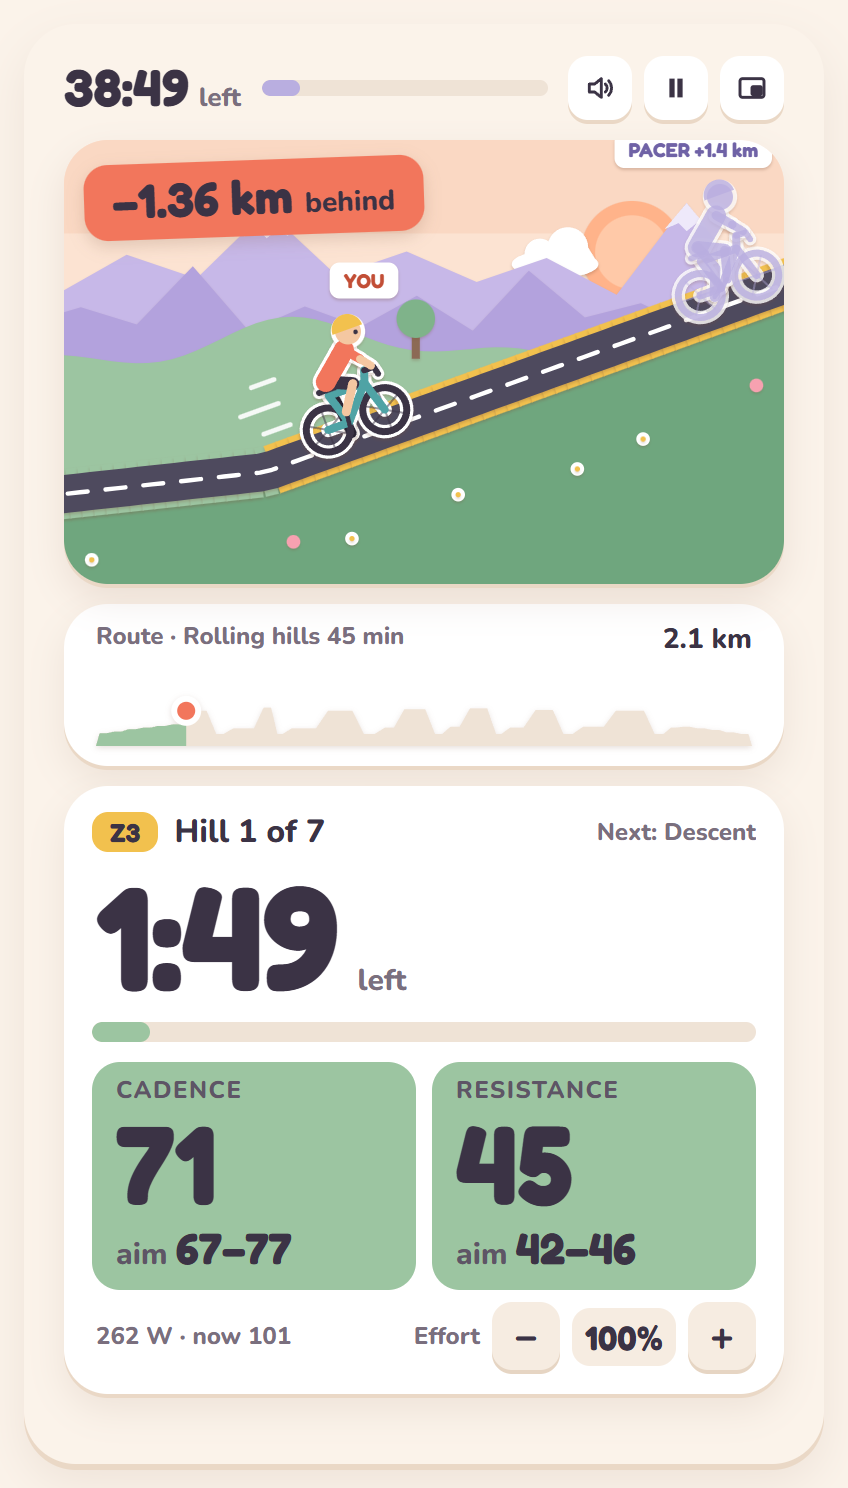
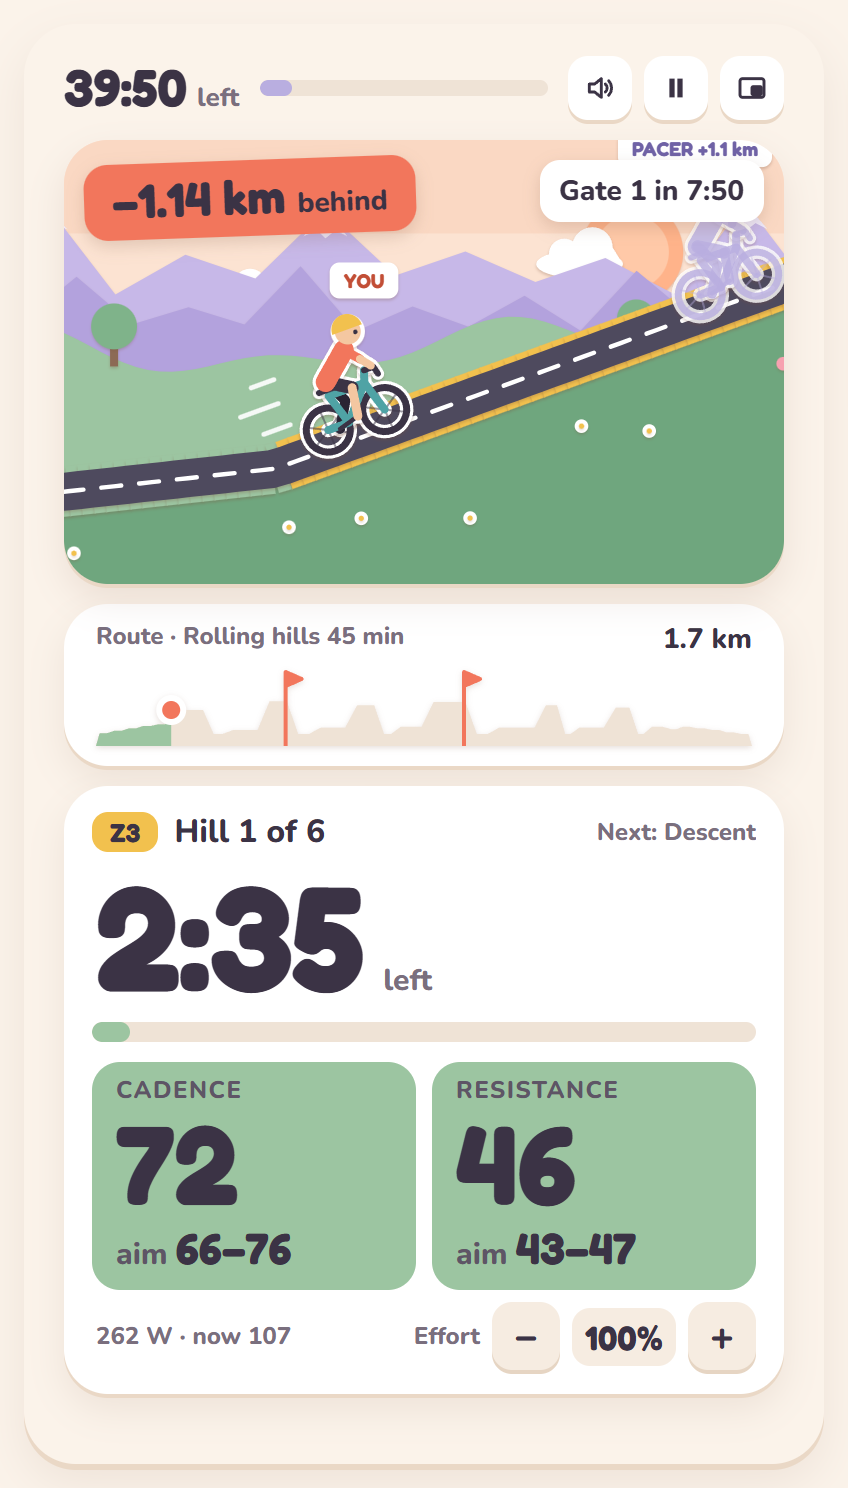
Rides scale by stretching and adding; sets; pyramid repeats; random pick
- Longer rides get longer efforts as well as more of them: effort
  lengths grow with the square root of the time available.
- More than five repeats are grouped into sets with a three-minute easy
  spell between (intervals, sprints).
- Pyramid repeats its ladder with an easy spell between, instead of
  filling long rides with cruising.
- Mountain climbs share the time evenly between mountains.
- Warm-up and cool-down are three to five minutes each.
- "Pick one for me" in the ride type step chooses a random ride.

Claude-Session: https://claude.ai/code/session_019bcLdA25aR7snsdYMj9RXw

diff --git a/src/core/workout.js b/src/core/workout.js
@@ -78,8 +78,8 @@ export function generateWorkout(type, minutes, variant = 0) {
   };
   const rand = seeded(`${type}-${minutes}-${v}`);
 
-  const warm = Math.max(3, Math.round(minutes * 0.13));
-  const cool = Math.max(3, Math.round(minutes * 0.1));
+  const warm = Math.min(5, Math.max(3, Math.round(minutes * 0.13)));
+  const cool = Math.min(5, Math.max(3, Math.round(minutes * 0.1)));
   const main = (minutes - warm - cool) * 60;
 
   const warmTop = type === 'recovery' ? 58 : 72;
@@ -119,19 +119,43 @@ export function generateWorkout(type, minutes, variant = 0) {
   return workout;
 }
 
+const EASY_SPELL_S = 180;
+
 /**
  * The main-set builders. Each takes a budget in seconds, spends what it can,
  * and fills any remainder with easy cruising, so the total is always exact.
+ *
+ * A longer ride gets both longer efforts and more of them: lengths grow with
+ * the square root of the time available (`stretch`), and the count makes up the
+ * rest. Once there are more than five repeats they are grouped into sets with
+ * an easy spell between, so a long ride has a shape.
  */
 function makeBuilders(add, v, rand) {
   const cruise = (sec) => add(sec, 62, 'steady', { name: 'Cruise' });
   const between = (lo, hi) => lo + rand() * (hi - lo);
   const step = (x, s = 15) => Math.round(x / s) * s;
+  const stretch = (budget) => Math.min(1.8, Math.max(0.85, Math.sqrt(budget / 1200)));
+
+  /** Fill the budget with repeats of `repS` seconds, in sets. Returns the seconds used. */
+  const inSets = (budget, repS, emit) => {
+    let n = Math.floor(budget / repS);
+    let sets = 1;
+    if (n > 5) {
+      sets = Math.ceil(n / 4);
+      n = Math.floor((budget - (sets - 1) * EASY_SPELL_S) / repS);
+    }
+    for (let i = 0; i < sets; i++) {
+      const inThisSet = Math.floor(n / sets) + (i < n % sets ? 1 : 0);
+      for (let r = 0; r < inThisSet; r++) emit();
+      if (i < sets - 1) add(EASY_SPELL_S, 60, 'steady', { name: 'Easy spell' });
+    }
+    return n * repS + (sets - 1) * EASY_SPELL_S;
+  };
   const clampInt = (x, lo, hi) => Math.min(hi, Math.max(lo, Math.round(x)));
 
   const b = {
     endurance(budget) {
-      const blk = [5, 6, 4][v] * 60;
+      const blk = step([5, 6, 4][v] * 60 * stretch(budget), 60);
       const ps = [[65, 72], [68, 74], [62, 70]][v];
       let left = budget;
       let i = 0;
@@ -140,7 +164,7 @@ function makeBuilders(add, v, rand) {
     },
 
     recovery(budget) {
-      const blk = 300;
+      const blk = step(300 * stretch(budget), 60);
       const ps = [[55, 60], [52, 58], [58, 62]][v];
       let left = budget;
       let i = 0;
@@ -162,38 +186,44 @@ function makeBuilders(add, v, rand) {
     },
 
     intervals(budget) {
-      const [on, off] = [[3, 2], [4, 3], [2, 1]][v].map((m) => m * 60);
-      let left = budget;
-      while (left >= on + off) { add(on, 105, 'work'); add(off, 55, 'recovery'); left -= on + off; }
-      cruise(left);
+      const [on, off] = [[3, 2], [4, 3], [2, 1]][v].map((m) => step(m * 60 * stretch(budget), 30));
+      cruise(budget - inSets(budget, on + off, () => { add(on, 105, 'work'); add(off, 55, 'recovery'); }));
     },
 
     pyramid(budget) {
-      // The biggest ladder that fits (each needs its steps plus 1 min between them).
+      // The biggest ladder that fits (each needs its steps plus 1 min between
+      // them), then another after an easy spell, for as long as one fits.
       const ladders = [[1, 2, 3, 4, 3, 2, 1], [1, 2, 3, 2, 1], [1, 2, 1], [1]];
       const cost = (s) => (s.reduce((x, y) => x + y, 0) + s.length - 1) * 60;
-      const steps = ladders.find((s) => cost(s) <= budget) ?? [];
       const peak = [115, 110, 120][v];
-      steps.forEach((s, i) => {
-        add(s * 60, s <= 2 ? peak : peak - 12, 'work');
-        if (i < steps.length - 1) add(60, 55, 'recovery');
-      });
-      cruise(budget - (steps.length ? cost(steps) : 0));
+      let left = budget;
+      for (let n = 0; ; n++) {
+        const room = n ? left - EASY_SPELL_S : left;
+        const steps = ladders.find((s) => cost(s) <= room && (n === 0 || s.length > 1));
+        if (!steps) break;
+        if (n) add(EASY_SPELL_S, 60, 'steady', { name: 'Easy spell' });
+        steps.forEach((s, i) => {
+          add(s * 60, s <= 2 ? peak : peak - 12, 'work');
+          if (i < steps.length - 1) add(60, 55, 'recovery');
+        });
+        left = room - cost(steps);
+      }
+      cruise(left);
     },
 
     sprints(budget) {
+      // Sprints stay the same length however long the ride; there are just more sets.
       const [on, off] = [[30, 150], [15, 105], [30, 210]][v];
-      let left = budget;
-      while (left >= on + off) { add(on, 150, 'sprint'); add(off, 58, 'recovery'); left -= on + off; }
-      cruise(left);
+      cruise(budget - inSets(budget, on + off, () => { add(on, 150, 'sprint'); add(off, 58, 'recovery'); }));
     },
 
     cadence(budget) {
       const rpms = [70, 90, 110];
       const ps = [58, 63, 68];
+      const blk = step(180 * stretch(budget), 30);
       let left = budget;
       let i = 0;
-      while (left >= 180) { add(180, ps[(i + v) % 3], 'drill', { cadence: rpms[(i + v) % 3] }); left -= 180; i++; }
+      while (left >= blk) { add(blk, ps[(i + v) % 3], 'drill', { cadence: rpms[(i + v) % 3] }); left -= blk; i++; }
       cruise(left);
     },
 
@@ -233,16 +263,17 @@ function makeBuilders(add, v, rand) {
         { climb: [45, 90], pct: [95, 110] }, // punchy
         { climb: [120, 240], pct: [78, 90] }, // long drags
       ][v];
+      const k = stretch(budget);
       let left = budget;
-      while (left >= style.climb[0] + 120) {
-        const climb = Math.min(step(between(...style.climb)), left - 120);
+      while (left >= style.climb[0] * k + 120) {
+        const climb = Math.min(step(between(...style.climb) * k), left - 120);
         const pct = between(...style.pct);
         // No two hills alike: steeper ones are ridden slower, and descents and
         // flats vary a little too.
         add(climb, pct, 'work', { cadence: clampInt(72 - (pct - 80) / 3 + between(-2, 2), 60, 76), name: 'Hill' });
         const descent = step(between(45, 90));
         add(descent, between(50, 60), 'recovery', { cadence: Math.round(between(90, 98)), name: 'Descent' });
-        const flat = Math.min(step(between(60, 150)), left - climb - descent);
+        const flat = Math.min(step(between(60, 150) * k), left - climb - descent);
         add(flat, between(66, 74), 'steady', { cadence: Math.round(between(86, 92)), name: 'Flat' });
         left -= climb + descent + Math.max(0, flat);
       }
@@ -256,23 +287,29 @@ function makeBuilders(add, v, rand) {
         { start: 84, rise: 5, stepS: 120 },
         { start: 78, rise: 3, stepS: 180 },
       ][v];
+      const stepS = step(style.stepS * stretch(budget), 30);
       const approach = 120;
       const summit = 60;
       const descent = 180;
+      // Share the time evenly between the mountains, so the last one isn't
+      // squeezed out and replaced by a long cruise.
+      const fixed = approach + summit + descent;
+      const count = Math.max(1, Math.round(budget / (fixed + 4 * stepS)));
+      const each = Math.floor(budget / count);
       let left = budget;
-      let m = 0;
-      while (left >= approach + style.stepS * 2 + summit + descent) {
-        const room = left - approach - summit - descent;
-        const steps = Math.max(2, Math.min(5, Math.floor(room / style.stepS)));
-        m++;
-        add(approach, between(66, 72), 'steady', { cadence: 88, name: 'Approach' });
+      for (let m = 1; m <= count && each >= fixed + stepS * 2; m++) {
+        const steps = Math.min(6, Math.floor((each - fixed) / stepS));
+        // Time that doesn't fill another step goes into a longer ride in.
+        const valley = Math.min(240, step(each - fixed - steps * stepS) - 15);
+        const rideIn = approach + Math.max(0, valley);
+        add(rideIn, between(66, 72), 'steady', { cadence: 88, name: 'Approach' });
         // Each mountain's steps still rise, but unevenly, as real gradients do.
         for (let i = 0; i < steps; i++) {
-          add(style.stepS, style.start + i * style.rise + between(-1.5, 1.5), 'work', { cadence: clampInt(72 - i * 3 + between(-1, 1), 60, 76), label: `Mountain ${m} · climb ${i + 1}/${steps}` });
+          add(stepS, style.start + i * style.rise + between(-1.5, 1.5), 'work', { cadence: clampInt(72 - i * 3 + between(-1, 1), 60, 76), label: `Mountain ${m} · climb ${i + 1}/${steps}` });
         }
         add(summit, between(104, 112), 'work', { cadence: Math.round(between(65, 70)), label: `Mountain ${m} · summit` });
         add(descent, between(52, 58), 'recovery', { cadence: Math.round(between(92, 98)), name: 'Descent' });
-        left -= approach + steps * style.stepS + summit + descent;
+        left -= rideIn + steps * stepS + summit + descent;
       }
       cruise(left);
     },
@@ -284,12 +321,13 @@ function makeBuilders(add, v, rand) {
         { gap: [60, 150], surge: [15, 40], pct: [120, 140] },
         { gap: [180, 300], surge: [30, 75], pct: [110, 120] },
       ][v];
+      const k = stretch(budget);
       let left = budget;
       while (left >= style.gap[0] + style.surge[0]) {
-        const gap = Math.min(step(between(...style.gap)), left - style.surge[0]);
+        const gap = Math.min(step(between(...style.gap) * k), left - style.surge[0]);
         add(gap, between(66, 74), 'steady', { cadence: Math.round(between(85, 91)), name: 'Ride' });
         left -= gap;
-        const surge = Math.min(step(between(...style.surge), 5), left);
+        const surge = Math.min(step(between(...style.surge) * Math.sqrt(k), 5), left);
         add(surge, between(...style.pct), 'work', { cadence: Math.round(between(94, 102)), name: 'Surge' });
         left -= surge;
       }
@@ -311,9 +349,10 @@ function makeBuilders(add, v, rand) {
         ['jumps', 'seated', 'sprints', 'recover', 'standing', 'flat'],
         ['seated', 'standing', 'recover', 'jumps', 'sprints', 'flat'],
       ][v];
+      const k = stretch(budget);
       let left = budget;
       for (let i = 0; ; i++) {
-        const parts = songs[order[i % order.length]]();
+        const parts = songs[order[i % order.length]]().map(([dur, ...rest]) => [dur >= 120 ? step(dur * k, 30) : dur, ...rest]);
         const len = parts.reduce((a, p) => a + p[0], 0);
         if (len > left) break;
         for (const p of parts) add(...p);

diff --git a/src/ui/app.js b/src/ui/app.js
@@ -225,7 +225,10 @@ function renderSetup() {
   // One group of types open at a time; a closed group shows the pick inside it.
   const groups = [...new Set(TYPES.map((t) => t.group))];
   if (state.typeGroup === undefined) state.typeGroup = TYPES.find((t) => t.id === state.type)?.group;
-  $('types').innerHTML = groups.map((g) => {
+  $('types').innerHTML = `<button type="button" class="type-random" data-random>
+      <svg width="18" height="18" viewBox="0 0 24 24" fill="none" stroke="currentColor" stroke-width="2.2" stroke-linecap="round" stroke-linejoin="round" aria-hidden="true"><path d="M16 3h5v5"/><path d="M4 20L21 3"/><path d="M21 16v5h-5"/><path d="M15 15l6 6"/><path d="M4 4l5 5"/></svg>
+      Pick one for me
+    </button>` + groups.map((g) => {
     const list = TYPES.filter((t) => t.group === g);
     const open = g === state.typeGroup;
     const head = `<button type="button" class="type-group" data-group="${esc(g)}" aria-expanded="${open}" style="background:${GROUP_COLORS[g] ?? ''}">
@@ -388,6 +391,17 @@ $('cust-minus').addEventListener('click', () => setDuration(Math.ceil(state.dura
 $('cust-plus').addEventListener('click', () => setDuration(Math.floor(state.duration / 5) * 5 + 5));
 
 $('types').addEventListener('click', (e) => {
+  if (e.target.closest('[data-random]')) {
+    // Any ride but the current one, in any of its three versions.
+    const others = TYPES.filter((t) => t.id !== state.type);
+    const pick = others[Math.floor(Math.random() * others.length)];
+    state.type = pick.id;
+    state.variant = Math.floor(Math.random() * 3);
+    state.typeGroup = pick.group;
+    saveSettings({ lastType: state.type });
+    renderSetup();
+    return;
+  }
   const head = e.target.closest('[data-group]');
   if (head) {
     state.typeGroup = state.typeGroup === head.dataset.group ? null : head.dataset.group;

diff --git a/test/workout.test.js b/test/workout.test.js
@@ -166,3 +166,29 @@ test('natural rides vary: hills, descents and flats are not all alike', () => {
   const climbs = m.segments.filter((s) => /Mountain 1 · climb/.test(s.label));
   for (let i = 1; i < climbs.length; i++) assert.ok(climbs[i].pct > climbs[i - 1].pct, 'mountain steps still rise');
 });
+
+test('warm-up and cool-down are capped at five minutes', () => {
+  for (const minutes of [22, 45, 90, 120]) {
+    const w = generateWorkout('endurance', minutes, 0);
+    const count = (kind) => w.segments.filter((s) => s.kind === kind).reduce((a, s) => a + s.dur, 0) / 60;
+    assert.ok(count('warmup') >= 3 && count('warmup') <= 5, `warm-up at ${minutes}`);
+    assert.ok(count('cooldown') >= 3 && count('cooldown') <= 5, `cool-down at ${minutes}`);
+  }
+});
+
+test('a longer ride has longer efforts and more of them, in sets', () => {
+  const efforts = (minutes) => generateWorkout('intervals', minutes, 0).segments.filter((s) => s.kind === 'work');
+  const [short, mid, long] = [22, 45, 90].map(efforts);
+  assert.ok(short[0].dur < mid[0].dur && mid[0].dur < long[0].dur, 'efforts get longer');
+  assert.ok(short.length < mid.length && mid.length < long.length, 'and there are more of them');
+  const spells = (minutes) => generateWorkout('intervals', minutes, 0).segments.filter((s) => s.name === 'Easy spell').length;
+  assert.equal(spells(22), 0);
+  assert.ok(spells(90) >= 1, 'long rides are split into sets');
+});
+
+test('pyramid repeats its ladder on long rides instead of cruising', () => {
+  const w = generateWorkout('pyramid', 90, 0);
+  const cruise = w.segments.filter((s) => s.name === 'Cruise').reduce((a, s) => a + s.dur, 0);
+  assert.ok(cruise <= 10 * 60, `cruise ${cruise / 60} min`);
+  assert.ok(w.segments.filter((s) => s.name === 'Easy spell').length >= 2);
+});

diff --git a/styles/app.css b/styles/app.css
@@ -158,6 +158,11 @@ main { padding: 0 32px 40px; }
   background: var(--paper); box-shadow: 0 2px 0 #EAD8C6; display: flex; align-items: center; gap: 12px; text-align: left;
 }
 .type.wide { grid-column: span 2; }
+.type-random {
+  grid-column: 1 / -1; display: flex; align-items: center; justify-content: center; gap: 8px; min-height: 44px;
+  border: 2px dashed var(--lavender-deep); border-radius: 14px; background: var(--lavender-soft); color: var(--lavender-text);
+  font-family: inherit; font-weight: 800; font-size: 15px; cursor: pointer;
+}
 .type-group {
   grid-column: 1 / -1; display: flex; align-items: center; gap: 10px; min-height: 48px; padding: 0 16px;
   border: 0; border-radius: 14px; background: var(--sand); color: var(--ink); font-family: inherit; cursor: pointer; text-align: left;
